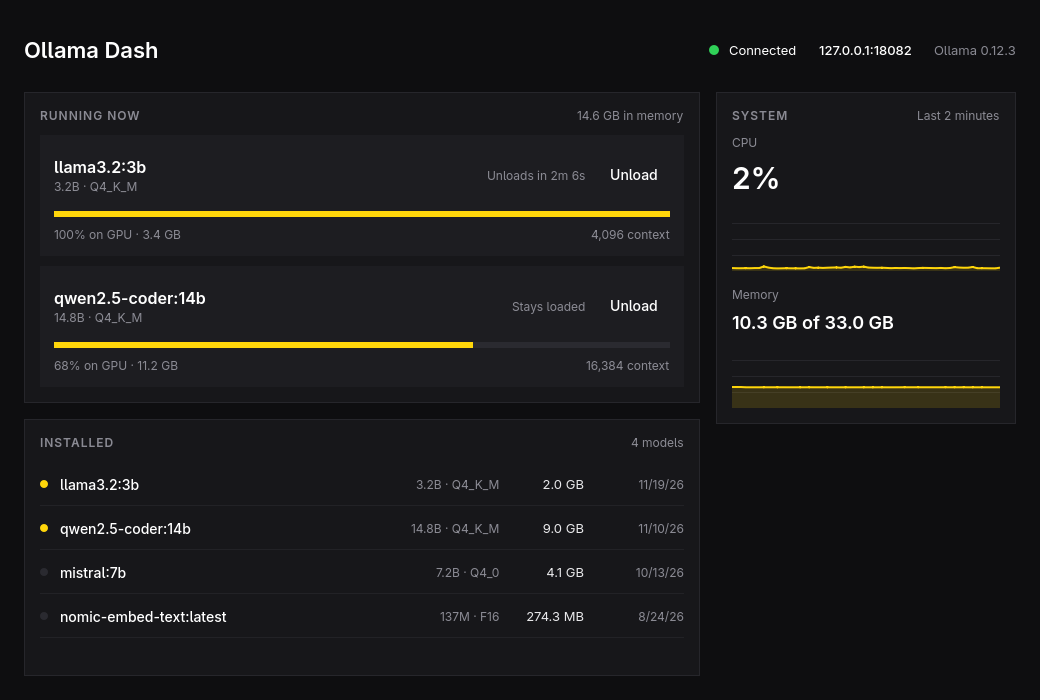
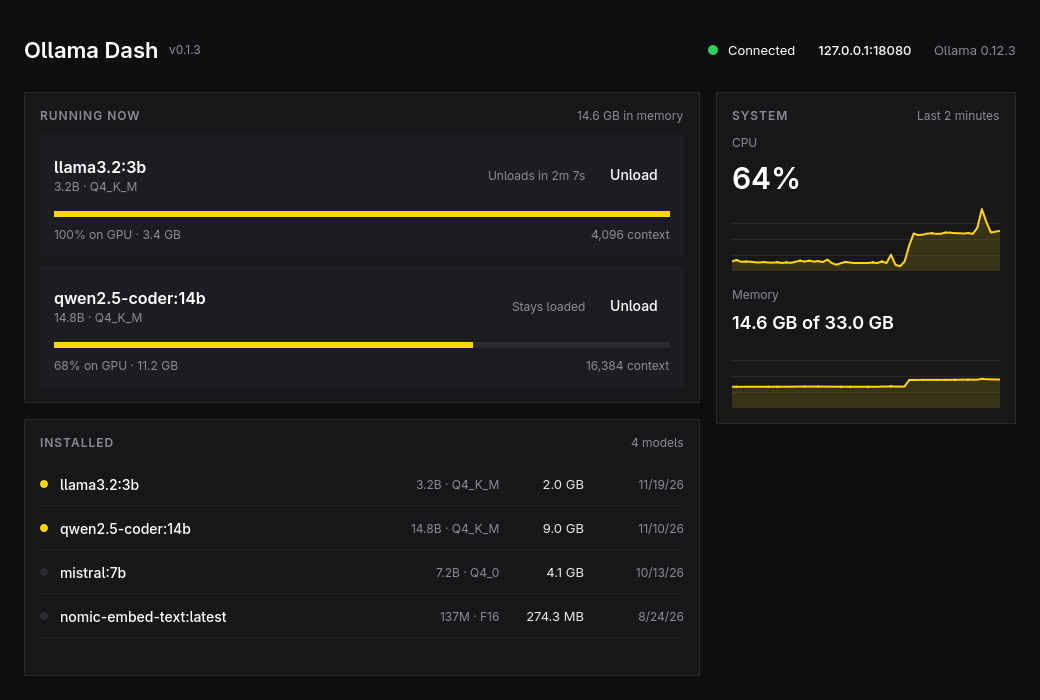
Add a fake Ollama and a screenshot tool
bin/screenshot regenerates the README image from made-up models, so it
no longer depends on scratch files outside the repo.

diff --git a/tests/tools/fake_ollama.py b/tests/tools/fake_ollama.py
@@ -1,0 +1,78 @@
+#!/usr/bin/env python3
+"""A fake Ollama server with made-up models, for screenshots and manual testing.
+
+Usage: fake_ollama.py [port]   (default 18080, loopback only)
+
+It answers /api/ps, /api/tags, /api/version and POST /api/show. Nothing here
+comes from a real machine, so it is safe to put in a README screenshot.
+"""
+import datetime
+import json
+import sys
+from http.server import BaseHTTPRequestHandler, HTTPServer
+
+now = datetime.datetime.now(datetime.timezone.utc)
+
+
+def ts(**delta):
+    return (now + datetime.timedelta(**delta)).isoformat()
+
+
+PS = {"models": [
+    {"name": "llama3.2:3b", "size": 3400000000, "size_vram": 3400000000,
+     "expires_at": ts(minutes=4, seconds=12), "context_length": 4096,
+     "details": {"parameter_size": "3.2B", "quantization_level": "Q4_K_M"}},
+    {"name": "qwen2.5-coder:14b", "size": 11200000000, "size_vram": 7600000000,
+     # Ollama reports "never unloads" as a date centuries away.
+     "expires_at": ts(days=365 * 300), "context_length": 16384,
+     "details": {"parameter_size": "14.8B", "quantization_level": "Q4_K_M"}}]}
+
+TAGS = {"models": [
+    {"name": "llama3.2:3b", "size": 2019393189, "modified_at": ts(days=-3),
[1 lines of base64/hex data omitted]
+     "details": {"family": "llama", "parameter_size": "3.2B", "quantization_level": "Q4_K_M"}},
+    {"name": "qwen2.5-coder:14b", "size": 8988110000, "modified_at": ts(days=-12),
[1 lines of base64/hex data omitted]
+     "details": {"family": "qwen2", "parameter_size": "14.8B", "quantization_level": "Q4_K_M"}},
+    {"name": "mistral:7b", "size": 4113301824, "modified_at": ts(days=-40),
[1 lines of base64/hex data omitted]
+     "details": {"family": "llama", "parameter_size": "7.2B", "quantization_level": "Q4_0"}},
+    {"name": "nomic-embed-text:latest", "size": 274302450, "modified_at": ts(days=-90),
[1 lines of base64/hex data omitted]
+     "details": {"family": "nomic-bert", "parameter_size": "137M", "quantization_level": "F16"}}]}
+
+SHOW = {
+    "license": "MIT License\n\nThis is made-up licence text for a fake model.",
+    "parameters": "temperature 0.7\ntop_k 40\nstop \"<|end|>\"",
+    "template": "{{ .System }}\n{{ .Prompt }}",
+    "capabilities": ["completion", "tools"],
+    "modified_at": ts(days=-3),
+    "details": {"format": "gguf", "family": "llama", "parameter_size": "3.2B",
+                "quantization_level": "Q4_K_M"},
+    "model_info": {"general.architecture": "llama", "llama.context_length": 131072,
+                   "llama.block_count": 28, "llama.embedding_length": 3072},
+}
+
+
+class Handler(BaseHTTPRequestHandler):
+    def log_message(self, *args):
+        pass
+
+    def reply(self, body):
+        self.send_response(200 if body is not None else 404)
+        self.send_header("Content-Type", "application/json")
+        self.end_headers()
+        self.wfile.write(json.dumps(body or {}).encode())
+
+    def do_GET(self):
+        self.reply({"/api/ps": PS, "/api/tags": TAGS,
+                    "/api/version": {"version": "0.12.3"}}.get(self.path))
+
+    def do_POST(self):
+        self.rfile.read(int(self.headers.get("Content-Length", 0)))
+        self.reply(SHOW if self.path == "/api/show" else None)
+
+
+if __name__ == "__main__":
+    port = int(sys.argv[1]) if len(sys.argv) > 1 else 18080
+    HTTPServer(("127.0.0.1", port), Handler).serve_forever()

diff --git a/tests/tools/screenshot.cpp b/tests/tools/screenshot.cpp
@@ -1,0 +1,50 @@
+// Loads the real Main.qml offscreen and saves what the window shows.
+//
+// Usage: screenshot <out.png> [delay-ms]
+//
+// The delay lets the sparklines fill (60 samples at 2 s). The language file and
+// theme directory point nowhere, so the shot is English with the default accent
+// whatever this machine is set to.
+#include <QGuiApplication>
+#include <QQmlApplicationEngine>
+#include <QQmlContext>
+#include <QQuickStyle>
+#include <QQuickWindow>
+#include <QTimer>
+
+#include "backend.h"
+#include "theme.h"
+#include "translator.h"
+
+int main(int argc, char **argv) {
+    if (argc < 2)
+        return 2;
+    qputenv("QT_QPA_PLATFORM", "offscreen");
+    QGuiApplication app(argc, argv);
+    app.setApplicationVersion(QStringLiteral(APP_VERSION));
+    QQuickStyle::setStyle("Material");
+
+    const QString nowhere = QStringLiteral("/nonexistent");
+    Translator translator(nowhere, ":/i18n");
+    app.installTranslator(&translator);
+    Theme theme(nowhere, nullptr, nowhere);
+    Backend backend;
+
+    QQmlApplicationEngine engine;
+    engine.rootContext()->setContextProperty("translator", &translator);
+    engine.rootContext()->setContextProperty("theme", &theme);
+    engine.rootContext()->setContextProperty("backend", &backend);
+    engine.load(QUrl("qrc:/Main.qml"));
+    if (engine.rootObjects().isEmpty())
+        return 1;
+    backend.start();
+
+    auto *win = qobject_cast<QQuickWindow *>(engine.rootObjects().first());
+    const QString out = QString::fromLocal8Bit(argv[1]);
+    const int delay = argc > 2 ? QString::fromLocal8Bit(argv[2]).toInt() : 5000;
+    QTimer::singleShot(delay, [&app, win, out] {
+        const bool saved = win->grabWindow().save(out);
+        app.exit(saved ? 0 : 1);
+    });
+    return app.exec();
+}

diff --git a/AGENTS.md b/AGENTS.md
@@ -8,6 +8,7 @@ A native Qt 6 / Qt Quick dashboard for an Ollama server, built the way Omarchy's
 bin/build      # qmake6 + make into build/ollamadash
 bin/test       # builds and runs the Qt Test binary offscreen (15 tests)
 bin/install    # builds the package and runs makepkg -fsi
+bin/screenshot # regenerates docs/screenshot.png from a fake Ollama (about 2 minutes)
 ```
 
 No CMake. `src/` is flat. `build/`, `pkgbuild/pkg/`, `pkgbuild/src/` and `*.pkg.tar.*` are ignored.
@@ -19,10 +20,11 @@ No CMake. `src/` is flat. `build/`, `pkgbuild/pkg/`, `pkgbuild/src/` and `*.pkg.
 - `src/theme.*`, `src/translator.*`: copied from Omarchy's apps (Omacut and Monologue). Keep them as they are.
 - `src/i18n/*.json`: English text to translation. `en.json` holds only the plural.
 - `tests/ollamadash_tests.cpp`: unit tests. They include `../src/*.cpp` directly and never touch the network.
+- `tests/tools/`: the fake Ollama and the screenshot tool (not tests).
 
 ## Things that will bite you
 
-- **The version lives in two places**: `VERSION` in `ollamadash.pro` and `pkgver` in `pkgbuild/PKGBUILD`. Bump both. `bin/build` deletes `main.o` on purpose, because the version is a compile-time define and `make` does not notice `.pro` changes. Without that, a release ships the old number.
+- **The version lives in two places**: `VERSION` in `ollamadash.pro` and `pkgver` in `pkgbuild/PKGBUILD`. Bump both. `bin/build` deletes `main.o` (and `bin/screenshot` deletes `screenshot.o`) on purpose, because the version is a compile-time define and `make` does not notice `.pro` changes. Without that, a release ships the old number.
 - **The saved host beats `$OLLAMA_HOST`.** Order: argument, saved setting (`~/.config/ollamadash/ollamadash.conf`), `$OLLAMA_HOST`, `127.0.0.1:11434`. When testing against a fake server, set `XDG_CONFIG_HOME` to a temp directory, or you will hit the user's real server and may capture it in a screenshot.
 - **Never touch Omarchy's config**, and never run `omarchy language` to test translations. Point the `Translator` at a temporary language file instead.
 - **Languages: only ones Omarchy supports.** Currently `es-MX`, `it` and `hu`. Omarchy has no plain `es` and no `gl`. `bin/test` checks that every catalog has the same keys and keeps the `%1` placeholders. New user-visible strings need adding to all three catalogs and to the `.desktop` `Comment` lines.
@@ -33,9 +35,15 @@ No CMake. `src/` is flat. `build/`, `pkgbuild/pkg/`, `pkgbuild/src/` and `*.pkg.
 
 ## Looking at the UI
 
-Drive the real QML offscreen: a small harness that loads `qrc:/Main.qml` with `QT_QPA_PLATFORM=offscreen`, sends mouse and key events, and saves `window->grabWindow()`. Set `QT_FORCE_STDERR_LOGGING=1` or QML warnings go to the journal. Use a fake Ollama (`/api/ps`, `/api/tags`, `/api/version`, `/api/show`) on a local port, with made-up models. The sparklines hold 60 samples at 2 s, so wait about two minutes for full graphs.
+`tests/tools/` has what you need to see the real QML without touching the desktop or a real server:
 
-The README screenshot (`docs/screenshot.png`) must use made-up content, the default accent `#FFD60A` (give `Theme` a nonexistent directory) and a loopback host.
+- `fake_ollama.py [port]` is a fake Ollama (`/api/ps`, `/api/tags`, `/api/version`, `POST /api/show`) with made-up models.
+- `screenshot.cpp` loads `qrc:/Main.qml` offscreen (English, default accent `#FFD60A`, whatever this machine uses) and saves `grabWindow()` after a delay.
+- `bin/screenshot [out.png] [delay-ms]` builds the tool, starts the fake server, runs it with an empty `XDG_CONFIG_HOME` and `OLLAMA_HOST` pointing at the fake, and writes `docs/screenshot.png`. The sparklines hold 60 samples at 2 s, so the default delay is 125 s. Use a short delay when you only want to look at a layout.
+
+To test interaction, copy `screenshot.cpp` somewhere outside the repo and add `QTest::mouseClick` / `keyClick` calls on the window (link `testlib`). Set `QT_FORCE_STDERR_LOGGING=1` or QML warnings go to the journal.
+
+The README screenshot must stay made-up and use a loopback host.
 
 ## Releasing
 
